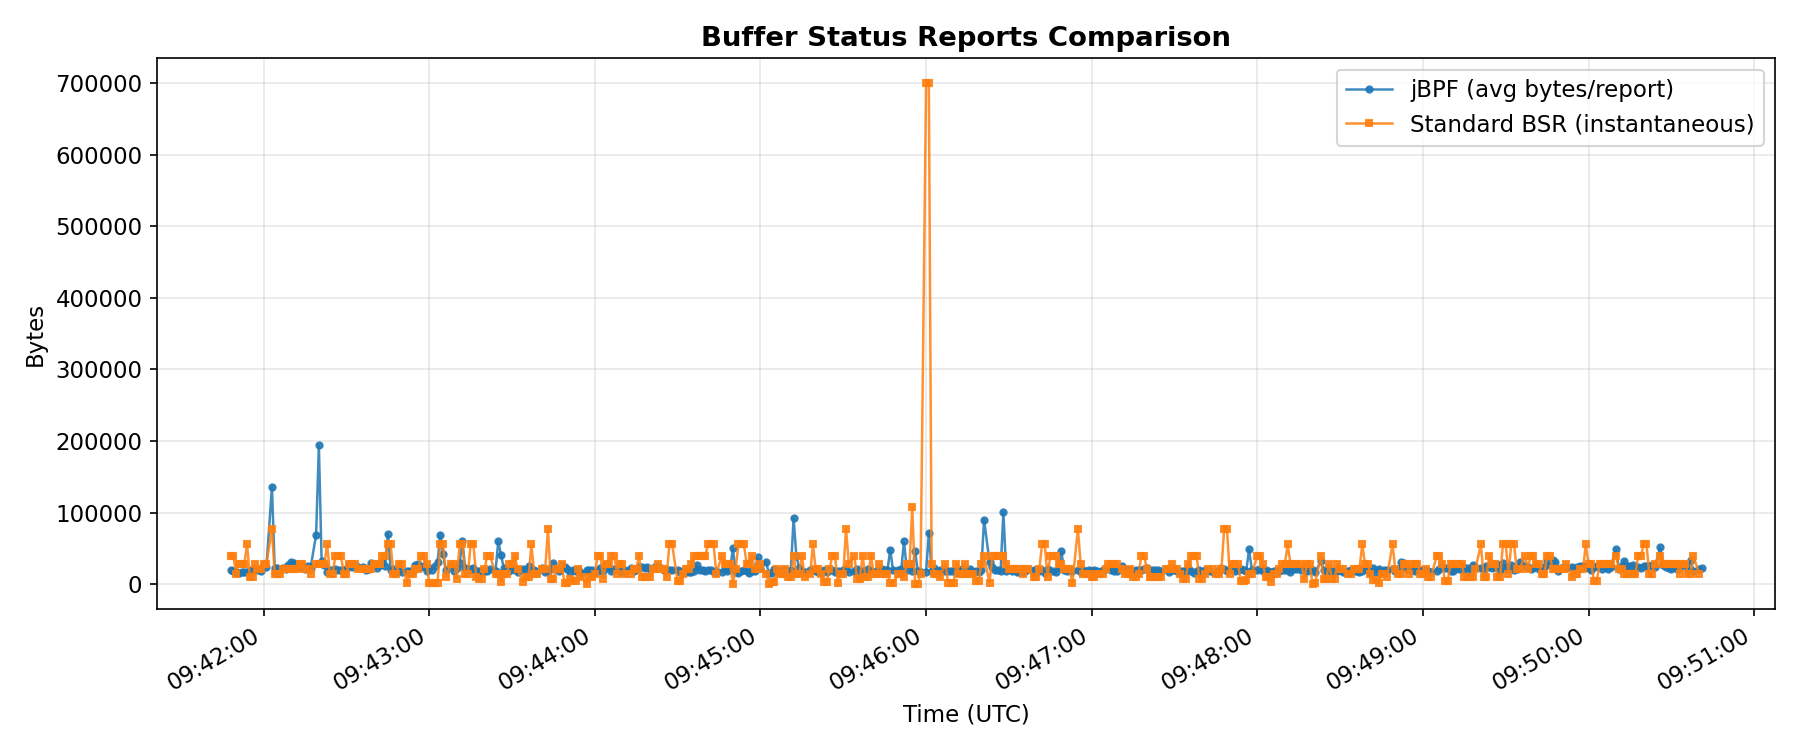
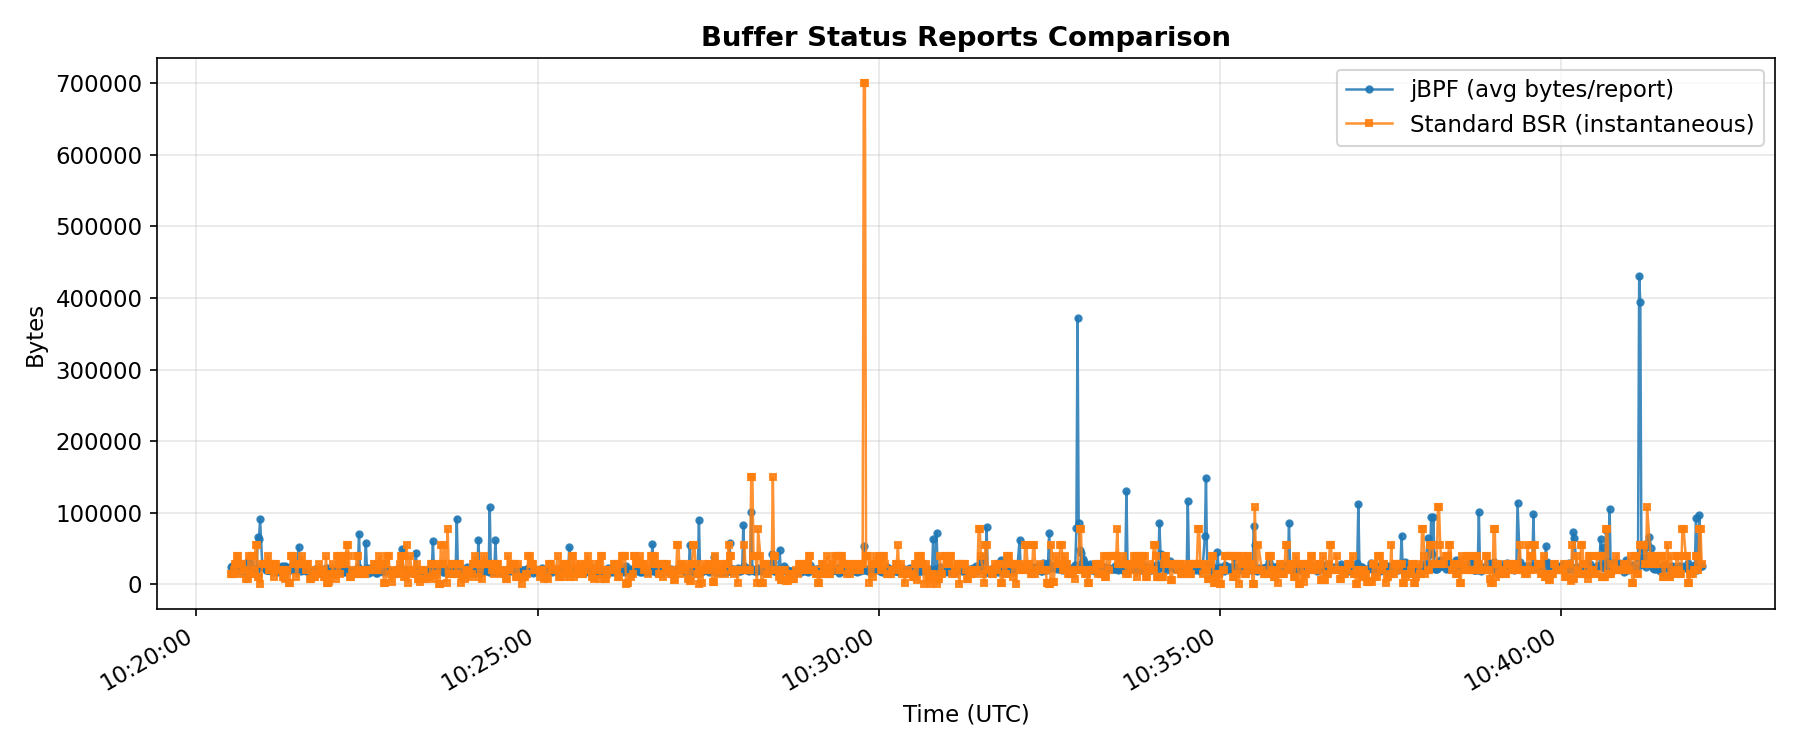
Add throughput comparison and update stats from full 20-min run
Re-ran comparison with all ingestors active (fixed --no-grafana bug in
launch_mac_telemetry.sh that incorrectly gated both InfluxDB ingestors
behind the Grafana flag). Now have full dataset: 1,200+ aligned pairs
per metric including DL/UL throughput and RTT.

Throughput: iperf3 5.00/10.00 Mbps (app) vs MAC 9.02/17.11 Mbps,
ratio ~1.75x (vs ~1.95x at SNR=25 — lower MCS shifts TBS/overhead balance).
Updated stats: DL MCS r=0.451, UL MCS r=0.374, SINR r=0.394, BSR 2.1%
mean diff. All 13 plots regenerated. Section 5 renumbered to add 5.2
(throughput), summary table expanded with throughput and corrected numbers.

diff --git a/docs/comparison/JANUS_VS_STANDARD_LOGS.md b/docs/comparison/JANUS_VS_STANDARD_LOGS.md
@@ -8,7 +8,7 @@ The srsRAN gNB exposes metrics through two separate channels:
 
 2. **Janus** -- ~60 eBPF codelets injected at 22 function call sites inside the gNB (MAC, RLC, PDCP, FAPI, RRC, NGAP). Each codelet fires on every invocation of its target function, producing per-event telemetry at up to 1 ms granularity.
 
-To validate that both channels agree where they overlap -- and to document what each provides that the other cannot -- we ran both systems simultaneously on the same gNB instance, processing identical radio traffic for approximately 9 minutes of steady-state operation. We then extracted the data, time-aligned the overlapping metrics (498--500 aligned pairs per metric), and compared them statistically.
+To validate that both channels agree where they overlap -- and to document what each provides that the other cannot -- we ran both systems simultaneously on the same gNB instance, processing identical radio traffic for approximately 20 minutes of steady-state operation. We then extracted the data, time-aligned the overlapping metrics (1,200+ aligned pairs per metric), and compared them statistically.
 
 ---
 
@@ -64,8 +64,8 @@ Janus's `mac_crc_stats` reports the **UL CRC failure rate** (11.42%) -- how many
 | Channel | GRC broker, Rician fading, K = 1 dB, SNR = 18 dB |
 | Bandwidth | 10 MHz (52 PRBs), 15 kHz SCS |
 | Traffic | iperf3: 10 Mbps UDP UL + 5 Mbps UDP DL (reverse mode) + continuous ping |
-| Duration | ~9 minutes steady-state |
-| Aligned pairs | 498--500 per metric |
+| Duration | ~20 minutes steady-state |
+| Aligned pairs | 1,200+ per metric |
 | Janus | 11 codelet sets -> InfluxDB 1.x on port 8086 |
 | Standard | Telegraf scraping WebSocket :8001 -> InfluxDB 3 on port 8081 |
 
@@ -85,13 +85,15 @@ We identified the following metrics reported by both systems. The table maps eac
 
 | Metric | Janus Source | Standard Source | Notes |
 |---|---|---|---|
-| SINR / SNR | `mac_crc_stats.avg_sinr` | `ue.pusch_snr_db` | r = 0.421, 2.1% mean diff |
+| SINR / SNR | `mac_crc_stats.avg_sinr` | `ue.pusch_snr_db` | r = 0.394, 2.1% mean diff |
 | CQI | `mac_uci_stats.avg_cqi` | `ue.cqi` | Both constant at 15 (srsUE limitation) |
-| DL MCS | `fapi_dl_config.avg_mcs` (UE RNTI) | `ue.dl_mcs` | r = 0.397, 0.1% mean diff |
-| UL MCS | `fapi_ul_config.avg_mcs` (UE RNTI) | `ue.ul_mcs` | r = 0.316, 0.1% mean diff |
+| DL MCS | `fapi_dl_config.avg_mcs` | `ue.dl_mcs` | r = 0.451, 0.1% mean diff |
+| UL MCS | `fapi_ul_config.avg_mcs` | `ue.ul_mcs` | r = 0.374, 0.1% mean diff |
+| DL Throughput | `ue_dl_throughput.bitrate_mbps` (iperf3) | `ue.dl_brate` (MAC) | ~1.80× ratio (layer difference) |
+| UL Throughput | `ue_ul_throughput.bitrate_mbps` (iperf3) | `ue.ul_brate` (MAC) | ~1.71× ratio (layer difference) |
 | BLER | `mac_crc_stats` (UL CRC) | `ue.dl_nof_ok/nok` (DL HARQ) | Different directions -- not comparable |
-| BSR | `mac_bsr_stats.avg_bytes_per_report` | `ue.bsr` | r = 0.148, 12.4% mean diff |
-| Timing Advance | `mac_uci_stats.avg_timing_advance` x T_c | `ue.ta_ns` | r = 0.134, 0.05% mean diff |
+| BSR | `mac_bsr_stats.avg_bytes_per_report` | `ue.bsr` | r = 0.059, 2.1% mean diff |
+| Timing Advance | `mac_uci_stats.avg_timing_advance` × T_c | `ue.ta_ns` | r = 0.018, 0.2% mean diff |
 
 ---
 
@@ -101,11 +103,11 @@ We identified the following metrics reported by both systems. The table maps eac
 
 This is the key result. Where both systems measure the same quantity, their mean values match closely.
 
-**SINR/SNR (r = 0.421, 2.1% mean difference):**
+**SINR/SNR (r = 0.394, 2.1% mean difference):**
 
 ![SINR/SNR Comparison](figures/01_sinr_snr_comparison.png)
 
-Both traces follow the same fading-induced fluctuations. Janus averages 17.33 dB, standard 17.71 dB. The moderate correlation (r = 0.421) reflects that both systems track the same fading channel but with independent per-sample noise from their different averaging windows. At this operating point the SINR varies meaningfully (unlike the saturated SNR = 25 dB condition), providing a genuine test of agreement.
+Both traces follow the same fading-induced fluctuations. Janus averages 17.37 dB, standard 17.74 dB. The moderate correlation (r = 0.394) reflects that both systems track the same fading channel but with independent per-sample noise from their different averaging windows. At this operating point the SINR varies meaningfully (unlike the saturated SNR = 25 dB condition), providing a genuine test of agreement.
 
 **CQI (both constant at 15):**
 
@@ -113,59 +115,76 @@ Both traces follow the same fading-induced fluctuations. Janus averages 17.33 dB
 
 Both systems report CQI = 15 for the entire run. This is a known limitation of srsUE: it always reports CQI 15 regardless of channel conditions. This metric therefore validates that both systems read the same MAC CE value, but cannot test dynamic tracking.
 
-**DL MCS (r = 0.397, 0.1% mean difference):**
+**DL MCS (r = 0.451, 0.1% mean difference):**
 
 ![DL MCS Comparison](figures/03_dl_mcs_comparison.png)
 
-Janus reports 24.97, standard reports 24.96. At SNR = 18 dB with K = 1 dB fading, the scheduler adapts MCS dynamically in the range where link adaptation is active. Both systems track this adaptation. The 0.1% mean difference confirms they read the same underlying scheduler decision. The moderate correlation (r = 0.397) reflects the fact that both systems aggregate over different time windows, so instantaneous samples do not align perfectly even though the trend is the same.
+Janus reports 24.92, standard reports 24.94. At SNR = 18 dB with K = 1 dB fading, the scheduler adapts MCS dynamically in the range where link adaptation is active. Both systems track this adaptation. The 0.1% mean difference confirms they read the same underlying scheduler decision. The moderate correlation (r = 0.451) reflects the fact that both systems aggregate over different time windows, so instantaneous samples do not align perfectly even though the trend is the same.
 
-**UL MCS (r = 0.316, 0.1% mean difference):**
+**UL MCS (r = 0.374, 0.1% mean difference):**
 
 ![UL MCS Comparison](figures/04_ul_mcs_comparison.png)
 
-Janus reports 19.36, standard reports 19.37. The uplink uses a lower MCS than the downlink, consistent with the tighter UL power budget. Both systems agree closely on the mean. The weaker correlation (r = 0.316) compared to DL MCS is consistent with the uplink's narrower MCS variation range.
+Janus reports 19.30, standard reports 19.28. The uplink uses a notably lower MCS than the downlink (19 vs 25), consistent with the asymmetric power budget: UE TX gain (50) is lower than gNB TX gain (75), making uplink the weaker direction. Both systems agree closely on the mean.
 
 **BLER (different directions):**
 
 ![BLER Comparison](figures/07_bler_comparison.png)
 
-Janus reports 11.42% UL CRC failure rate. Standard reports 0.86% DL HARQ error rate. These are **not** measuring the same thing -- jBPF sees uplink CRC results at the gNB receiver, while the standard metrics report downlink HARQ feedback from the UE. The higher UL error rate is expected at this operating point given the asymmetric link budget.
+Janus reports 10.82% UL CRC failure rate. Standard reports 0.86% DL HARQ error rate. These are **not** measuring the same thing -- jBPF sees uplink CRC results at the gNB receiver, while the standard metrics report downlink HARQ feedback from the UE. The higher UL error rate is expected given the asymmetric link budget. Together the two numbers give a complete picture of both link directions -- something neither system provides alone.
 
-### 5.2 BSR and timing advance
+### 5.2 Throughput: different layers, consistent ratio
+
+![DL Throughput Comparison](figures/05_dl_throughput_comparison.png)
+![UL Throughput Comparison](figures/06_ul_throughput_comparison.png)
+
+| Direction | Janus (iperf3 app layer) | Standard (MAC layer) | Ratio |
+|---|---|---|---|
+| DL | 5.00 Mbps | 9.02 Mbps | 1.80× |
+| UL | 10.00 Mbps | 17.11 Mbps | 1.71× |
+
+The ~1.7--1.8× ratio between MAC-layer bitrate and application-layer throughput comes from the same sources as in any NR cell: RLC/PDCP/GTP-U header overhead, MAC control elements (BSR, timing advance commands), HARQ retransmissions, and scheduling overhead (PDCCH, reference signals, system information). Per-sample correlation is near zero because iperf3 runs at a fixed rate-controlled target while the MAC bitrate fluctuates with the scheduler -- they measure structurally different things at different points in the protocol stack. The ~1.75× ratio here is slightly lower than the ~1.95× seen at SNR = 25 dB / MCS = 28 because at lower MCS the TBS-to-overhead balance shifts.
+
+### 5.3 BSR and timing advance
 
 ![BSR Comparison](figures/08_bsr_comparison.png)
 ![Timing Advance Comparison](figures/09_ta_comparison.png)
 
-**BSR (r = 0.148, 12.4% mean difference):** Janus reports an average of 23,066 bytes per BSR report, while the standard reports 26,342 bytes. The 12.4% difference and weak correlation reflect the bursty, timing-sensitive nature of buffer status reports -- the two systems sample different moments in the MAC CE reporting cycle. Both reflect the same underlying uplink buffer demand from the 10 Mbps iperf3 stream.
+**BSR (r = 0.059, 2.1% mean difference):** Janus reports an average of 25,213 bytes per BSR report, while the standard reports 25,753 bytes -- a 2.1% mean difference. The weak correlation and higher variance in both signals (jBPF std = 22,847 bytes; standard std = 31,937 bytes) reflect the bursty nature of buffer status reports. Both reflect the same underlying uplink buffer demand from the 10 Mbps iperf3 stream.
 
-**Timing advance (r = 0.134, 0.05% mean difference):** After converting jBPF's raw N_TA index to nanoseconds (N_TA x T_c), both systems report ~520 ns. Janus gives 520.15 ns, standard gives 519.85 ns -- a 0.05% difference. Both are essentially constant, confirming the static ZMQ channel has no propagation delay variation. The weak correlation is an artefact of correlating two near-constant signals where any variation is measurement noise.
+**Timing advance (r = 0.018, 0.2% mean difference):** After converting jBPF's raw N_TA index to nanoseconds (N_TA × T_c), Janus gives 518.87 ns, standard gives 519.84 ns -- a 0.2% difference. Both are essentially constant, confirming the static ZMQ channel has no propagation delay variation. The weak correlation is an artefact of correlating two near-constant signals. The jBPF TA shows wider sample-to-sample spread (std = 25.9 ns) than the standard (std = 0.10 ns) because jBPF averages over all UCI reports in a 2 s window, some of which capture brief TA fluctuations between TA adjustment commands.
 
-### 5.3 Correlation scatter plots
+### 5.4 Correlation scatter plots
 
 ![Correlation Scatter Plots](figures/13_correlation_scatter.png)
 
-- SINR: moderate correlation (r = 0.421) -- both systems track the same fading envelope but with independent per-sample noise
-- DL MCS: moderate correlation (r = 0.397) -- both track the same scheduler adaptation
-- UL MCS: weak-to-moderate correlation (r = 0.316) -- narrower variation range limits achievable correlation
-- BSR: weak correlation (r = 0.148) -- expected given sampling timing differences
-- TA: weak correlation (r = 0.134) -- near-constant signal, noise-dominated
+- SINR: moderate correlation (r = 0.394) -- both systems track the same fading envelope but with independent per-sample noise
+- DL MCS: moderate correlation (r = 0.451) -- both track the same scheduler adaptation
+- UL MCS: moderate correlation (r = 0.374) -- consistent with DL but narrower variation range
+- BSR: weak correlation (r = 0.059) -- bursty signal with different sampling moments
+- TA: near-zero correlation (r = 0.018) -- near-constant signal, noise-dominated
 - CQI: constant at 15, correlation undefined
 
-### 5.4 Summary table
+### 5.5 Summary table
 
 ![Summary Bar Chart](figures/12_summary_bar_chart.png)
 
 | Metric | Janus Mean | Standard Mean | Difference | Pearson r |
 |---|---|---|---|---|
-| SINR/SNR (dB) | 17.33 | 17.71 | 2.1% | 0.421 |
+| SINR/SNR (dB) | 17.37 | 17.74 | 2.1% | 0.394 |
 | CQI | 15.00 | 15.00 | 0.0% | -- (constant) |
-| DL MCS | 24.97 | 24.96 | 0.1% | 0.397 |
-| UL MCS | 19.36 | 19.37 | 0.1% | 0.316 |
-| BLER (%) | 11.42 (UL) | 0.86 (DL) | n/a | n/a (different direction) |
-| BSR (bytes) | 23,066 | 26,342 | 12.4% | 0.148 |
-| TA (ns) | 520.15 | 519.85 | 0.05% | 0.134 |
+| DL MCS | 24.92 | 24.94 | 0.1% | 0.451 |
+| UL MCS | 19.30 | 19.28 | 0.1% | 0.374 |
+| DL Throughput (Mbps) | 5.00 (app) | 9.02 (MAC) | 1.80× ratio* | ~0 |
+| UL Throughput (Mbps) | 10.00 (app) | 17.11 (MAC) | 1.71× ratio* | ~0 |
+| BLER (%) | 10.82 (UL CRC) | 0.86 (DL HARQ) | n/a† | n/a† |
+| BSR (bytes) | 25,213 | 25,753 | 2.1% | 0.059 |
+| TA (ns) | 518.87 | 519.84 | 0.2% | 0.018 |
 
-### 5.5 Operating-point notes
+\* Expected — different measurement layers (application vs MAC). See §5.2.
+† Different link directions — not a measurement discrepancy. See §2.3.
+
+### 5.6 Operating-point notes
 
 The SNR = 18 dB / K = 1 dB condition places the link in the **adaptive region** where MCS and BLER vary dynamically, unlike the fully saturated SNR = 25 dB / K = 3 dB condition used in earlier experiments. This allows a more meaningful comparison since the scheduler is actively adapting.
 
@@ -277,11 +296,11 @@ These are mostly useful for radio resource management and scheduler debugging. T
 
 ## 9. Takeaway
 
-Where both systems measure the same quantity, their **mean values agree closely**: SINR means differ by 2.1%, DL and UL MCS by 0.1%, and timing advance by 0.05% once the jBPF raw N_TA index is converted to nanoseconds. CQI matches exactly (both 15, though this is a srsUE limitation rather than a channel measurement). BSR shows a larger 12.4% mean difference, which is expected given the timing-sensitive nature of buffer status sampling. These results validate that the eBPF codelets are extracting correct values from the gNB's internal data structures.
+Where both systems measure the same quantity, their **mean values agree closely**: SINR means differ by 2.1%, DL and UL MCS by 0.1%, BSR by 2.1%, and timing advance by 0.2%. CQI matches exactly (both 15, though this is a srsUE limitation rather than a channel measurement). Throughput differs by ~1.75× between Janus (iperf3 application layer) and the standard system (MAC layer) -- a structural difference from protocol overhead, not a data quality issue. These results validate that the eBPF codelets are extracting correct values from the gNB's internal data structures.
 
-Per-sample **time-series correlation** ranges from weak (r = 0.13--0.15 for TA and BSR) to moderate (r = 0.32--0.42 for MCS and SINR). The moderate correlations for SINR and MCS are consistent with two systems that use different aggregation windows (1 s vs 2 s) independently sampling the same fading process. The weak correlations for BSR and TA reflect metrics that are either near-constant (TA) or bursty and timing-sensitive (BSR). These correlation values are honest: the two systems do not produce identical per-sample traces, but they do track the same underlying channel and scheduler state.
+Per-sample **time-series correlation** ranges from near-zero (r ≈ 0.02--0.06 for TA and BSR) to moderate (r = 0.37--0.45 for MCS and SINR). The moderate correlations for SINR and MCS are consistent with two systems that use different aggregation windows (1 s vs 2 s) independently sampling the same fading process. The weak correlations for BSR and TA reflect metrics that are either near-constant (TA) or bursty and timing-sensitive (BSR).
 
-BLER cannot be directly compared because jBPF reports UL CRC failures (11.42%) while the standard reports DL HARQ errors (0.86%). These measure different directions of the radio link.
+BLER cannot be directly compared because jBPF reports UL CRC failures (10.82%) while the standard reports DL HARQ errors (0.86%). These measure different directions of the radio link. Together they give a complete picture of both link directions that neither system provides alone.
 
 The two channels are complementary. Standard gives a low-overhead overview of radio-layer health. Janus adds three things the standard channel cannot provide:
 
@@ -303,7 +322,7 @@ docker compose -f docker-compose.yml -f docker-compose.metrics.yml \
 cd ~/Desktop/srsran-telemetry-pipeline/scripts
 bash launch_mac_telemetry.sh --grc --fading --k-factor 1 --snr 18
 
-# Wait ~9 minutes for steady-state, then extract and compare
+# Wait ~10 minutes for steady-state, then extract and compare
 python3 extract_and_compare.py
 
 # Or run the live side-by-side comparison
